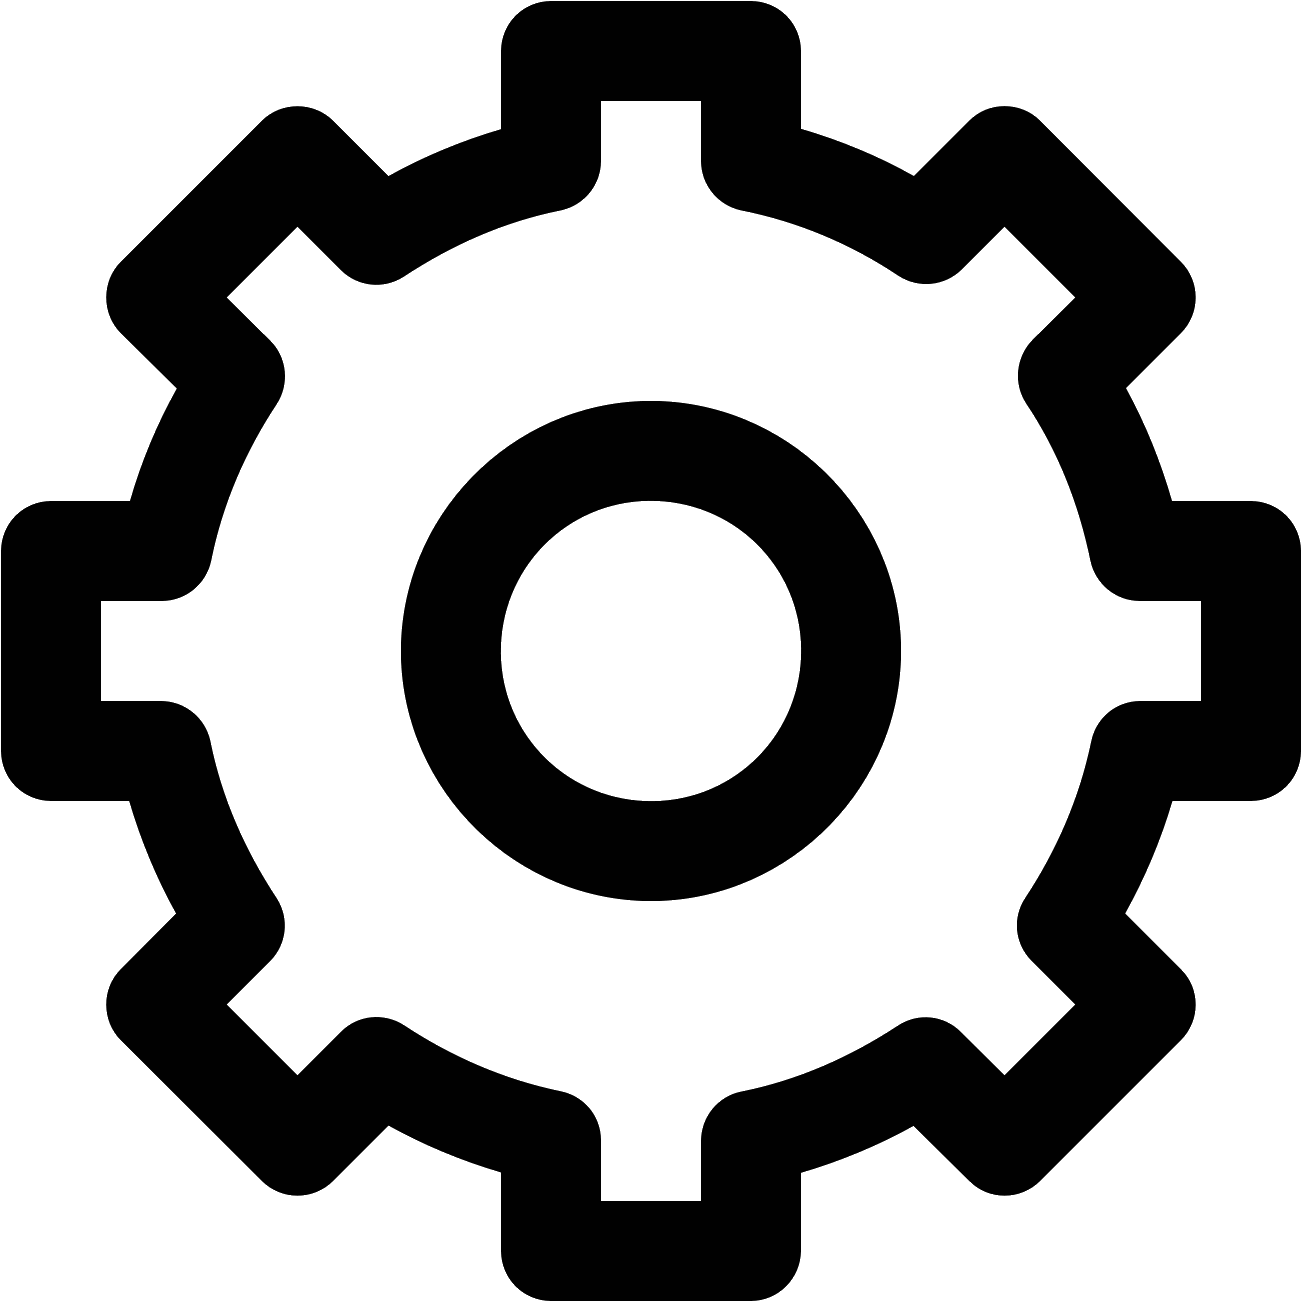
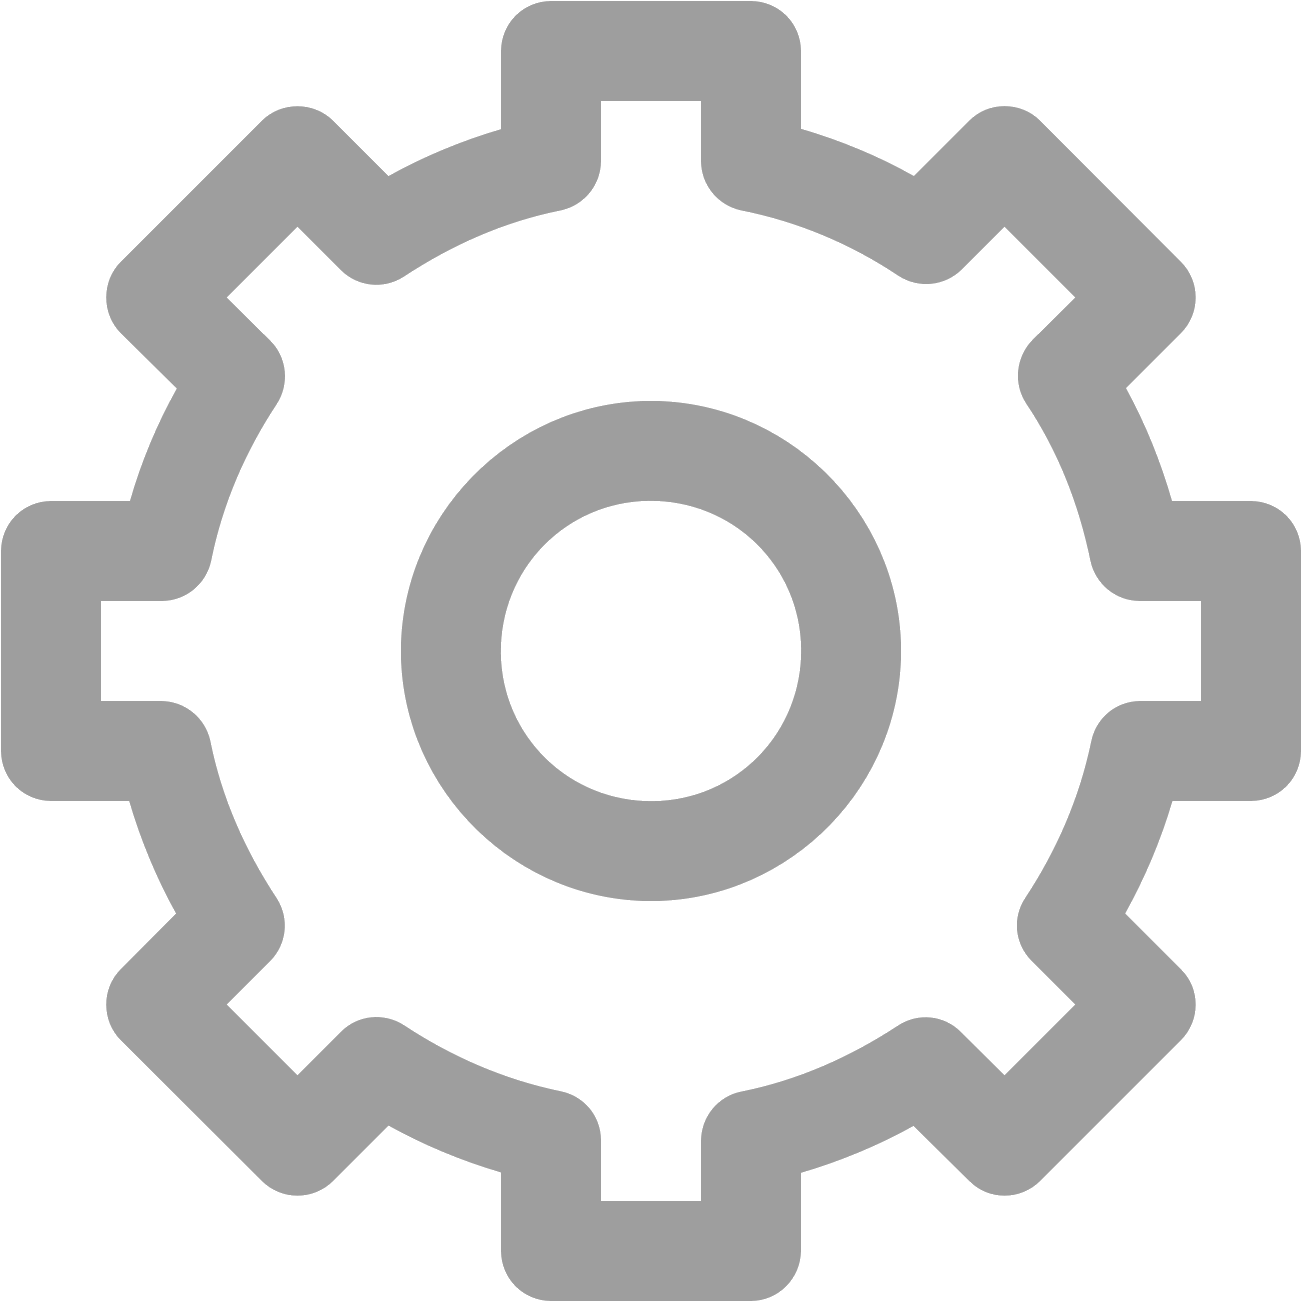
server

diff --git a/business_app/lib/business_app/screens/dashboard_page.dart b/business_app/lib/business_app/screens/dashboard_page.dart
@@ -125,18 +125,70 @@ class _SliverAppBarDelegate extends SliverPersistentHeaderDelegate {
     return Container(
       color: color,
       child: Column(children: <Widget>[
-        ProfileAppBar(),
-        Expanded(
-          child: Container(
-            // padding: EdgeInsets.only(bottom: 70),
-            alignment: Alignment.center,
-            child: Text(
-              "Dashboard",
-              style: MyStyles.of(context).textThemes.h2,
+        PAppBar(),
+        // Container(
+        //   // padding: EdgeInsets.only(bottom: 70),
+        //   alignment: Alignment.center,
+        //   child: Text(
+        //     "Dashboard",
+        //     style: MyStyles.of(context).textThemes.h2,
+        //   ),
+        // ),
+      ]),
+    );
+  }
+}
+
+class PAppBar extends StatelessWidget {
+  @override
+  Widget build(BuildContext context) {
+    return IntrinsicHeight(
+      child: Row(
+        crossAxisAlignment: CrossAxisAlignment.stretch,
+        children: [
+          Container(
+            padding: EdgeInsets.only(left: 10, right: 10),
+            child: AspectRatio(
+              aspectRatio: 1,
+              child: Container(
+                decoration: BoxDecoration(
+                  image: DecorationImage(
+                    image: MyStyles.of(context).images.userAccountIcon.image
+                  ) 
+                ),
+              )
             ),
           ),
-        ),
-      ]),
+          Column(
+            crossAxisAlignment: CrossAxisAlignment.start,
+            children: <Widget>[
+              Consumer<User>(
+                builder: (context, user, _) {
+                  return Text(
+                    user.businessName ?? "Company Name",
+                    style: MyStyles.of(context).textThemes.h3,
+                  );
+                }
+              ),
+              Text(
+                "View Account",
+                style: MyStyles.of(context).textThemes.h5,
+              )
+            ]
+          ),
+          Spacer(),
+          AspectRatio(
+            aspectRatio: 1,
+            child: Container(
+              decoration: BoxDecoration(
+                image: DecorationImage(
+                  image: MyStyles.of(context).images.gearIcon.image
+                ) 
+              ),
+            )
+          )
+        ],
+      ),
     );
   }
 }
@@ -151,54 +203,45 @@ class ProfileAppBar extends StatelessWidget {
 
   @override
   Widget build(BuildContext context) {
-    return Column(
+    return Row(
+      mainAxisAlignment: MainAxisAlignment.center,
       children: [
         Container(
-          color: color,
-          padding: EdgeInsets.fromLTRB(12, 0, 12, 0),
-          height: 37,
-          // constraints: BoxConstraints(maxHeight: 37),
-          child: Row(
+          child: MyStyles.of(context).images.userAccountIcon,
+        ),
+        Container(
+          padding: EdgeInsets.fromLTRB(7, 0, 7, 0),
+          child: Column(
             mainAxisAlignment: MainAxisAlignment.center,
+            crossAxisAlignment: CrossAxisAlignment.start,
             children: [
-              Container(
-                child: MyStyles.of(context).images.userAccountIcon,
-              ),
-              Expanded(
-                child: Container(
-                  padding: EdgeInsets.fromLTRB(7, 0, 7, 0),
-                  child: Column(
-                    mainAxisAlignment: MainAxisAlignment.center,
-                    crossAxisAlignment: CrossAxisAlignment.start,
-                    children: [
-                      Consumer<User>(
-                        builder: (context, user, _) {
-                          return Text(
-                            user.businessName ?? "Company Name",
-                            style: MyStyles.of(context).textThemes.h3,
-                          );
-                        }
-                      ),
-                      Text(
-                        "View Account",
-                        style: MyStyles.of(context).textThemes.h5,
-                      )
-                    ],
-                  ),
-                ),
-              ),
               Consumer<User>(
                 builder: (context, user, _) {
-                  return GestureDetector(
-                    onTap: () => {user.signOut()},
-                    child: Container(
-                        padding: EdgeInsets.all(3),
-                        child: MyStyles.of(context).images.gearIcon),
+                  return Text(
+                    user.businessName ?? "Company Name",
+                    style: MyStyles.of(context).textThemes.h3,
                   );
-                },
+                }
               ),
+              Text(
+                "View Account",
+                style: MyStyles.of(context).textThemes.h5,
+              )
             ],
           ),
+        ),
+        Consumer<User>(
+          builder: (context, user, _) {
+            return GestureDetector(
+              onTap: () async {
+                await user.signOut();
+                Navigator.of(context).popAndPushNamed("/home");
+              },
+              child: Container(
+                  padding: EdgeInsets.all(3),
+                  child: MyStyles.of(context).images.gearIcon),
+            );
+          },
         ),
       ],
     );

diff --git a/business_app/lib/business_app/services/services.dart b/business_app/lib/business_app/services/services.dart
@@ -6,11 +6,12 @@ import 'package:socket_io_client/socket_io_client.dart' as IO;
 class BusinessAppServer extends MyServer {
   static const String _tokenHeader = "Authorization";
 
-  static IO.Socket socket = IO.io('http://127.0.0.1:8000', <String, dynamic>{
+  static IO.Socket socket = IO.io(MyServer.path, <String, dynamic>{
     'transports': ['websocket'],
     'autoconnect': false,
     'extraHeaders': MyServer.headers
   });
+
   static int currentRoom = -1;
   bool connectSocket() {
     socket.connect();
@@ -119,6 +120,6 @@ class BusinessAppServer extends MyServer {
     );
   }
 
-  BusinessAppServer({String path = "http://0.0.0.0:8000/"}) : super(path: path);
+  BusinessAppServer();
 }
 

diff --git a/business_app/lib/services/services.dart b/business_app/lib/services/services.dart
@@ -46,7 +46,7 @@ class FirebaseServerException extends MyServerException {
 }
 
 class MyServer {
-  final path;
+  static const String path = true ? "http://0.0.0.0:8000/" : "http://ec2-18-221-212-236.us-east-2.compute.amazonaws.com/";
   static const Duration timeout = Duration(seconds: Foundation.kDebugMode ? 10 : 10);
 
   static Map<String, String> headers = <String, String>{
@@ -131,7 +131,7 @@ class MyServer {
     }
   }
 
-  MyServer({this.path});
+  MyServer();
 }
 
 extension QueueRequests on MyServer {

diff --git a/business_app/lib/theme/themes.dart b/business_app/lib/theme/themes.dart
@@ -28,11 +28,7 @@ class MyImages {
 
   static final MyImages lightMode = MyImages._(
     userAccountIcon: Image.asset("${imagePath}user_account_icon.png"),
-    gearIcon: Image.asset(
-      "${imagePath}gear_icon.png",
-        color: Color.fromRGBO(255, 255, 255, 0.39),
-        colorBlendMode: BlendMode.modulate
-      ),
+    gearIcon: Image.asset("${imagePath}gear_icon.png"),
   );
 
   static final MyImages darkMode = lightMode.copyWith();

diff --git a/business_app/lib/user_app/models/models.dart b/business_app/lib/user_app/models/models.dart
@@ -16,7 +16,7 @@ class ModelData {
 
   ModelData() {
     user = User();
-    server = UAppServer(path: "http://0.0.0.0:8000/");
+    server = UAppServer();
     // queueHandler = QueueHandler(server: server);
   }
 }

diff --git a/business_app/lib/user_app/services/services.dart b/business_app/lib/user_app/services/services.dart
@@ -30,5 +30,5 @@ class UAppServer extends MyServer {
     );
   }
 
-  UAppServer({String path = "http://0.0.0.0:8000/"}) : super(path: path);
+  UAppServer();
 }
